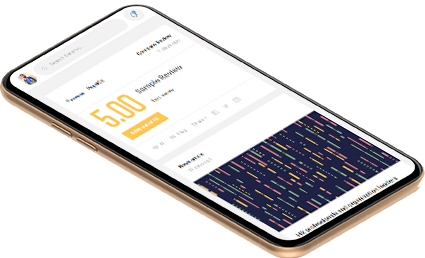
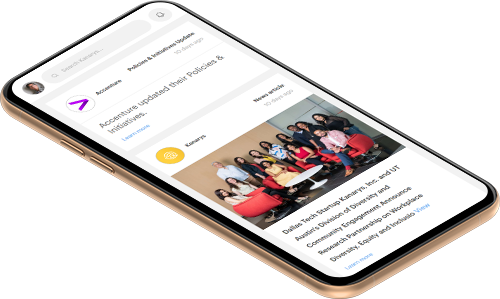
feat(PanelSlider): item transitions

diff --git a/src/components/PanelSlider.vue b/src/components/PanelSlider.vue
@@ -3,13 +3,14 @@
         <div class="PanelSlider_rail">
             <PanelItem
                 class="PanelSlider_item"
-                v-for="item in items"
+                v-for="(item, i) in items"
                 :key="item.id"
                 :image="item.image"
                 :title="item.title"
                 :subtitle="item.subtitle"
                 :color="item.color"
-                :active="state.active === item.id"
+                :ready="state.next === i"
+                :active="state.active === i"
                 :isLeft="isLeft"
                 ref="item"
             />
@@ -21,7 +22,8 @@
 import PanelItem from '@/components/PanelItem'
 
 import FlipAnimation from '@/mixins/FlipAnimation'
-import tempProjectMain from '@/assets/img/temp/project-main-0.png'
+import tempProjectMain0 from '@/assets/img/temp/project-main-0.png'
+import tempProjectMain1 from '@/assets/img/temp/project-main-1.png'
 
 export default {
     name: 'PanelSlider',
@@ -31,21 +33,23 @@ export default {
         isLeft: { type: Boolean, default: false }
     },
     data: () => ({
-        assets: { tempProjectMain },
+        assets: { tempProjectMain0, tempProjectMain1 },
         state: {
-            active: 0
+            active: 0,
+            next: 1
         },
         items: [
-            { id: 0, title: 'Kanarys', subtitle: 'Find workplaces where you belong', image: tempProjectMain, color: 'yellow' },
-            { id: 1, title: 'Projets WWF', subtitle: 'Ici et là, la WWF agit', image: tempProjectMain, color: 'blue' },
-            { id: 2, title: 'Agence Wandi', subtitle: 'Sérieux sans se prendre au sérieux', image: tempProjectMain, color: 'yellow' },
-            { id: 3, title: 'Aru', subtitle: 'et le maître du Temps', image: tempProjectMain, color: 'blue' }
+            { id: 0, title: 'Kanarys', subtitle: 'Find workplaces where you belong', image: tempProjectMain0, color: 'yellow' },
+            { id: 1, title: 'Projets WWF', subtitle: 'Ici et là, la WWF agit', image: tempProjectMain1, color: 'blue' },
+            { id: 2, title: 'Agence Wandi', subtitle: 'Sérieux sans se prendre au sérieux', image: tempProjectMain0, color: 'yellow' },
+            { id: 3, title: 'Aru', subtitle: 'et le maître du Temps', image: tempProjectMain1, color: 'blue' }
         ]
     }),
     mounted () {
         setInterval(() => {
             this.state.active = this.state.active < 3 ? this.state.active + 1 : 0
-        }, 6000)
+            this.state.next = this.state.active < 3 ? this.state.active + 1 : 0
+        }, 10000)
     },
     methods: {
         onTransitionBefore () {

diff --git a/src/components/PanelItem.vue b/src/components/PanelItem.vue
@@ -1,5 +1,5 @@
 <template>
-    <router-link :to="{ name: 'Project', params: { id: 'test' }}" class="PanelItem" :class="[ { 'is-active': active }, `is-${color}` ]">
+    <router-link :to="{ name: 'Project', params: { id: 'test' }}" class="PanelItem" :class="[ { 'is-active': active, 'is-ready': ready }, `is-${color}` ]">
         <div class="PanelItem_background" ref="background"></div>
 
         <img class="PanelItem_image" :src="image" ref="image">
@@ -26,6 +26,7 @@ export default {
     mixins: [ FlipAnimation ],
     props: {
         active: { type: Boolean, default: false },
+        ready: { type: Boolean, default: false },
         image: { type: String, required: true },
         title: { type: String },
         color: { type: String },
@@ -66,7 +67,7 @@ export default {
     justify-content: center;
     cursor: pointer;
     clip-path: polygon(0% 0%, 400% 0%, 400% 100%, 0% 100%);
-    transition: clip-path 1000ms ease-in-out;
+    transition: clip-path 800ms ease-in-out;
 }
 
 .PanelItem_background {
@@ -87,12 +88,10 @@ export default {
 .PanelItem_title {
     font: var(--font-main-xxl);
     font-weight: bold;
-    color: var(--color-yellow-accent);
 }
 
 .PanelItem_subtitle {
     font: var(--font-title-xl);
-    color: var(--color-yellow-light);
     margin-top: 10px;
 }
 
@@ -105,18 +104,23 @@ export default {
     clip-path: polygon(0% 0%, 400% 0%, 400% 0%, 0% 0%);
 }
 
+.PanelItem.is-ready {
+    z-index: 4;
+    clip-path: polygon(0% 0%, 400% 0%, 400% 100%, 0% 100%);
+}
+
 .PanelItem.is-yellow {
 
-    .PanelItem_background {
-        background-color: var(--color-yellow-background);
-    }
+    .PanelItem_background { background-color: var(--color-yellow-background); }
+    .PanelItem_title { color: var(--color-yellow-accent); }
+    .PanelItem_subtitle { color: var(--color-yellow-light); }
 }
 
 .PanelItem.is-blue {
 
-    .PanelItem_background {
-        background-color: var(--color-blue-background);
-    }
+    .PanelItem_background { background-color: var(--color-blue-background); }
+    .PanelItem_title { color: var(--color-blue-accent); }
+    .PanelItem_subtitle { color: var(--color-blue-light); }
 }
 </style>
 

diff --git a/src/assets/scss/base.scss b/src/assets/scss/base.scss
@@ -27,8 +27,8 @@
     --color-yellow-accent: #ffc347;
 
     --color-blue-background: #2121e2;
-    --color-blue-light: #6e6ae0;
-    --color-blue-accent: #0000f3;
+    --color-blue-light: #5757fb;
+    --color-blue-accent: #8e8efb;
 
 }
 
